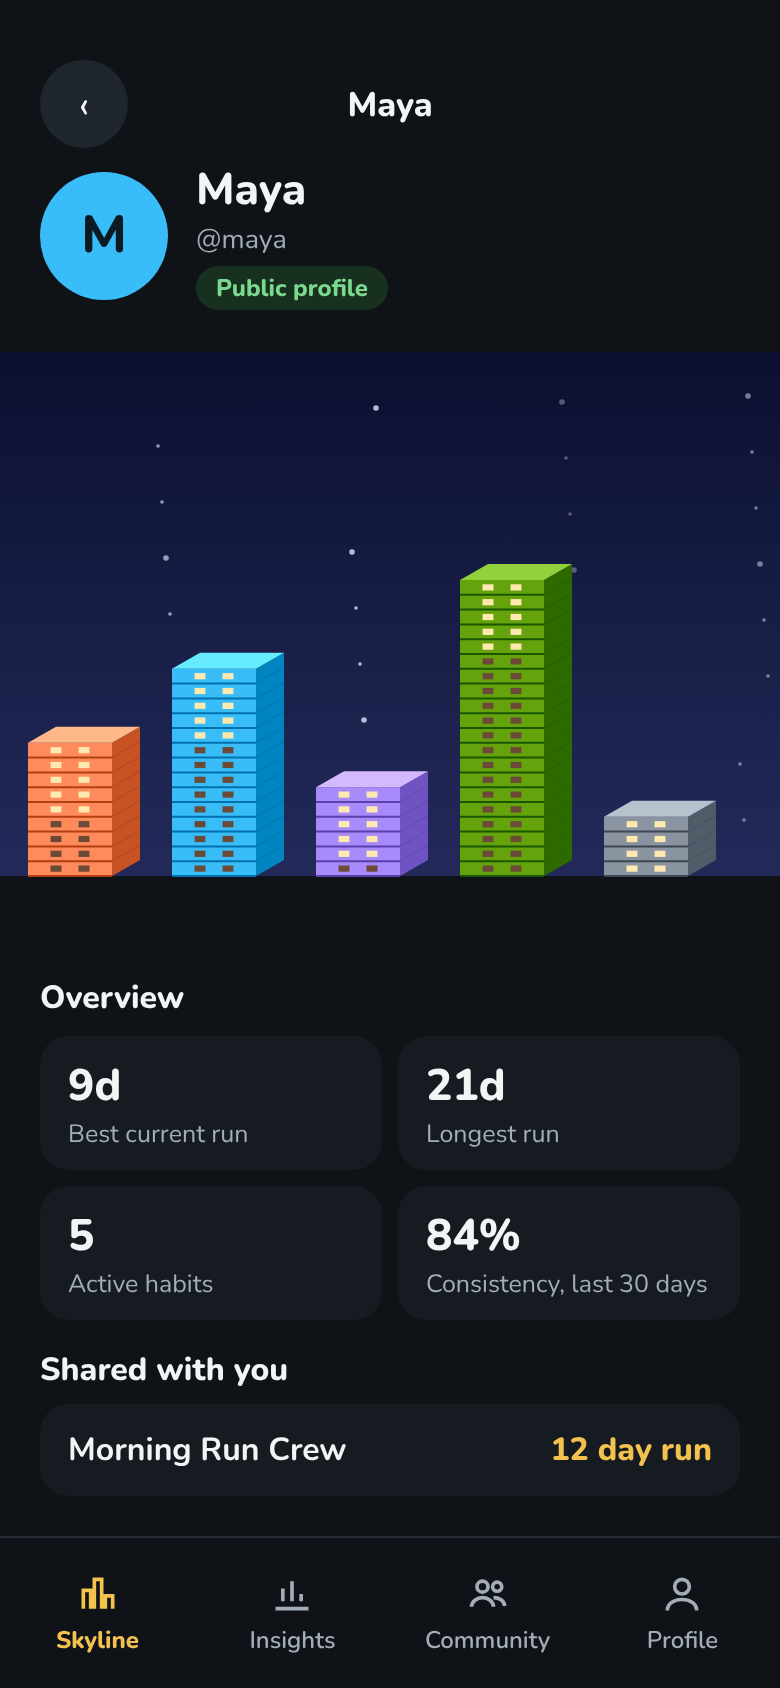
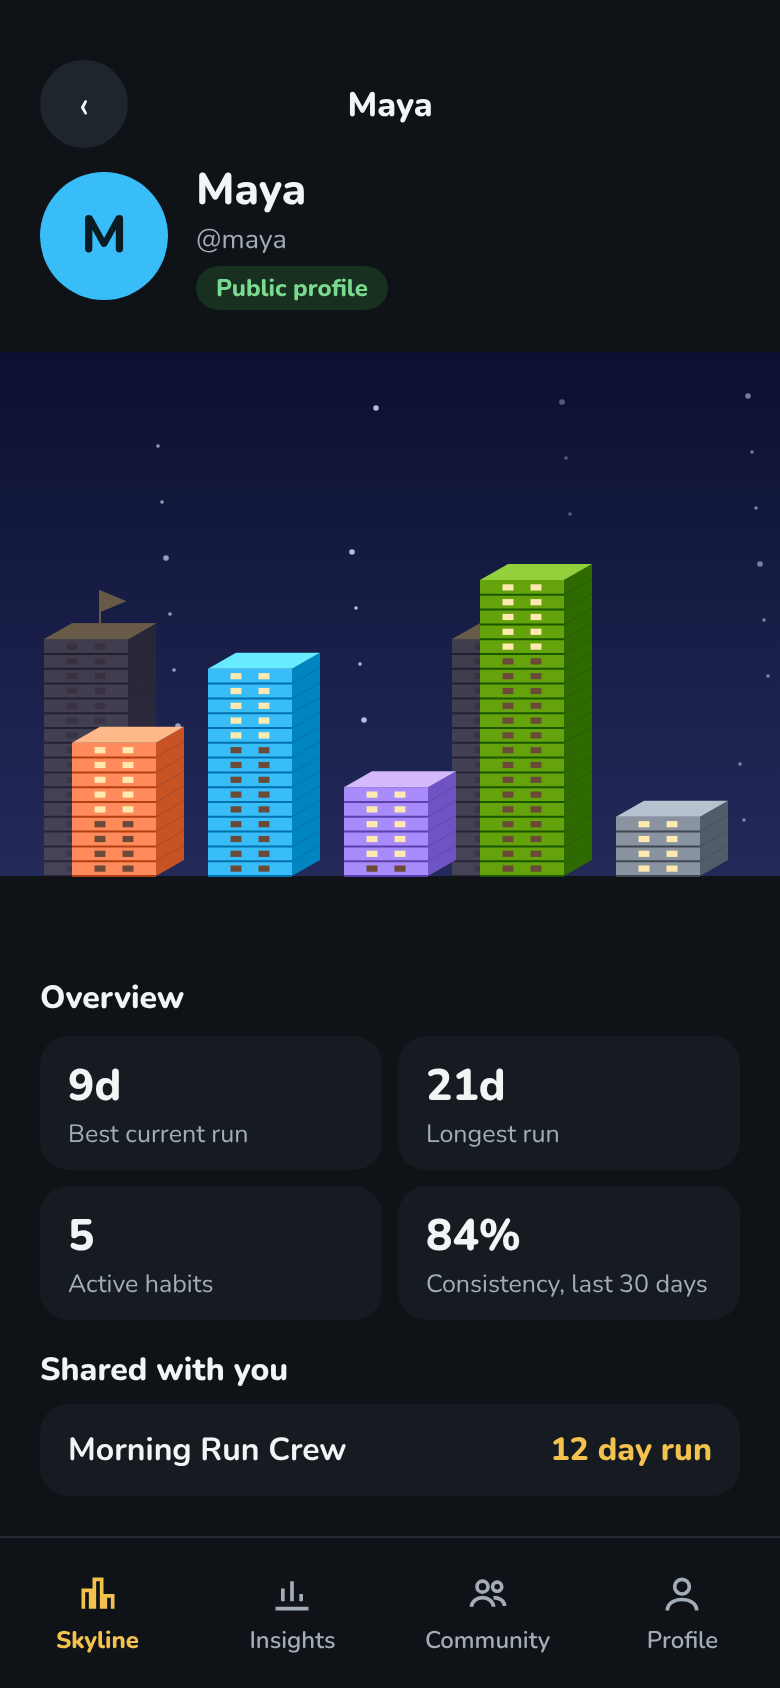
Design: monument sheet uses Total built; friend skyline shows faded finished towers
Claude-Session: https://claude.ai/code/session_01UvWD32uMFJU1E2B9jDYiLg

Changed region(s): [[0.0308, 0.3389, 0.4615, 0.5237], [0.4923, 0.3081, 0.9538, 0.5237]]

diff --git a/design/skyline/source/new.js b/design/skyline/source/new.js
@@ -95,7 +95,8 @@ if(S2==='co-empty'){
 const friendHead=(name,user,pub)=>`<div style="display:flex;align-items:center;justify-content:space-between;padding:30px 20px 6px"><div style="width:44px;height:44px;border-radius:22px;background:#1E252D;display:flex;align-items:center;justify-content:center;font-size:20px">‹</div><div style="font-size:17px;font-weight:800">${name}</div><div style="width:44px"></div></div><div style="padding:0 20px;display:flex;gap:14px;align-items:center"><div style="width:64px;height:64px;border-radius:32px;background:#38BDF8;color:#0b1b24;font-weight:800;font-size:26px;display:flex;align-items:center;justify-content:center">${name[0]}</div><div><div style="font-size:22px;font-weight:800">${name}</div><div style="color:#A3ADB8;font-size:13.5px">@${user}</div><div style="display:inline-block;margin-top:4px;font-size:12px;font-weight:800;padding:3px 10px;border-radius:12px;background:${pub?'#17301f':'#1E252D'};color:${pub?'#7BD88F':'#A3ADB8'}">${pub?'Public profile':'Private profile'}</div></div></div>`;
 if(S2==='fs-public'){
   const T=[['Run','#FF8A5C',9,0],['Read','#38BDF8',14,0],['Meditate','#A78BFA',6,0],['Water','#65A30D',20,0],['Tidy','#8A93A0',4,0]];
-  const sc=T.map(([n,c,f,_],i)=>{const x=14+i*72;const fl=[...rep('dark',Math.max(0,f-5)),...rep('lit',Math.min(5,f))];return tw(c,{x,base:262,w:42,fh:7.4,dx:14,dy:8,floors:fl,windows:2,today:false})+''}).join('');
+  const faded=(x)=>`<g opacity=".4">${tw('#7A6A58',{x:x-14,base:262,w:42,fh:7.4,dx:14,dy:8,floors:rep('dark',16),windows:2,today:false})}<path d="M${x-14},${262-16*7.4}l14,-8h42l-14,8Z" fill="#E0B84A"/><path d="M${x+14},${262-16*7.4-8}v-16l12,5l-12,5" fill="#E0B84A" stroke="#E0B84A"/></g>`;
+  const sc=[0,3].map(i=>faded(36+i*68)).join('')+T.map(([n,c,f,_],i)=>{const x=36+i*68;const fl=[...rep('dark',Math.max(0,f-5)),...rep('lit',Math.min(5,f))];return tw(c,{x,base:262,w:42,fh:7.4,dx:14,dy:8,floors:fl,windows:2,today:false})+''}).join('');
   R.innerHTML=shell(friendHead('Maya','maya',true)+`<svg width="390" height="300" style="position:absolute;top:176px;left:0"><defs><linearGradient id="fg" x1="0" y1="0" x2="0" y2="1"><stop offset="0" stop-color="#0B1030"/><stop offset="1" stop-color="#232a5a"/></linearGradient></defs><rect width="390" height="262" fill="url(#fg)"/>${star(30,240,11)}<rect y="262" width="390" height="38" fill="#0F1216"/>${sc}</svg>
    <div style="position:absolute;top:488px;left:20px;right:20px"><div style="font-weight:800;font-size:16px;margin-bottom:8px">Overview</div>
    <div style="display:grid;grid-template-columns:1fr 1fr;gap:8px">${[['9d','Best current run'],['21d','Longest run'],['5','Active habits'],['84%','Consistency, last 30 days']].map(([v,l])=>`<div style="background:#161B21;border-radius:14px;padding:10px 14px"><div style="font-size:22px;font-weight:800">${v}</div><div style="font-size:12.5px;color:#A3ADB8">${l}</div></div>`).join('')}</div>
@@ -169,7 +170,7 @@ if(S2==='mo-sheet'){
    <div style="color:#A3ADB8;font-size:11px;font-weight:800;letter-spacing:.8px">RETIRED TOWER</div>
    <div style="display:flex;gap:14px;align-items:center;margin-top:4px"><svg width="96" height="170" style="flex:0 0 96px">${tw('#8A93A0',{x:20,base:166,w:44,fh:6.6,dx:16,dy:9,floors:rep('dark',22),windows:2,today:false})}</svg>
    <div style="flex:1"><div style="font-size:24px;font-weight:800;line-height:1.15">Write 300 words</div><div style="color:#A3ADB8;font-size:13px;margin-top:3px">Daily · retired · a grey monument on your skyline</div></div></div>
-   <div style="display:flex;gap:8px;margin-top:12px">${[['41','Floors built'],['12 days','Best run'],['Mar 3','Started']].map(([v,l])=>`<div style="flex:1;background:#1B2128;border-radius:14px;padding:12px 10px;text-align:center"><div style="font-size:20px;font-weight:800">${v}</div><div style="font-size:12px;color:#A3ADB8;margin-top:2px">${l}</div></div>`).join('')}</div>
+   <div style="display:flex;gap:8px;margin-top:12px">${[['41','Total built'],['12 days','Best run'],['Mar 3','Started']].map(([v,l])=>`<div style="flex:1;background:#1B2128;border-radius:14px;padding:12px 10px;text-align:center"><div style="font-size:20px;font-weight:800">${v}</div><div style="font-size:12px;color:#A3ADB8;margin-top:2px">${l}</div></div>`).join('')}</div>
    <div style="margin-top:16px;height:54px;border-radius:27px;background:#F2C14E;color:#1b1608;font-weight:800;font-size:16px;display:flex;align-items:center;justify-content:center">Restore tower</div>
    <div style="text-align:center;color:#A3ADB8;font-size:12.5px;margin-top:10px">Restoring lets you build on this tower again.</div></div></div>`;
 }

diff --git a/design/skyline/README.md b/design/skyline/README.md
@@ -47,11 +47,11 @@ This is the only folder of Skyline mockups. The old `concept _screens/` folder w
 | 40 | `40-notification-center.png` | Notification center | 7 | **APPROVED by the owner 2026-11-16.** Restyle of the existing center: close, "Notifications", mark-all-read, rows with a type icon, title, body, time and an unread dot. All sample titles and bodies are mine; the real ones come from the server. It already opens from a bell in the Community header (confirmed by the developer). |
 | 41 | `41-ask-habituate-chat.png` | Ask Habituate, conversation | 7 | **APPROVED by the owner 2026-11-16.** Uses the existing strings: "Ask Habituate", "Ask about your routine...", "AI suggestions can be imperfect. You're in control.", "Nothing changes until you confirm.", "Confirm adjustment" / "Keep my goal". The question and answer text are sample copy, written non-causally. |
 | 42 | `42-ask-habituate-empty.png` | Ask Habituate, empty state with starter questions | 7 | **APPROVED by the owner 2026-11-16.** Starter questions are generated from the user's habits in the app; the three shown and the heading text are my sample copy. |
-| 43 | `43-friend-skyline-public.png` | Friend skyline, public profile | 6 | **PROPOSAL, awaiting approval (revised 2026-11-16 per the owner).** Towers without habit names: heights and colours only, with the existing overview stats and shared habits below. Needs a new friendship-gated endpoint that returns tower heights and colours but no names. |
+| 43 | `43-friend-skyline-public.png` | Friend skyline, public profile | 6 | **PROPOSAL, awaiting approval (revised 2026-11-16 per the owner).** Towers without habit names, each in the habit's own colour, with finished towers shown faded behind the current one (up to two, as on your own skyline). Needs a friendship-gated endpoint returning floors, colour and a finished-tower count, but no names. The developer has sent a plan; backend not yet approved. |
 | 44 | `44-friend-skyline-private.png` | Friend skyline, private profile | 6 | **PROPOSAL, awaiting approval.** Only the shared-habit towers you both belong to, joined by a skybridge, plus the existing "keeps their stats private" note. Needs floor and run data for shared towers, which the server does not return today. |
 | 45 | `45-edit-tower.png` | Edit tower form | 4 | **PROPOSAL, awaiting owner approval (2026-11-16).** Same fields as board 12 plus "Top out after (days)" (default 30) with its existing sublabel, then Save changes and Delete tower. The subtitle is my wording. The real form has more fields than drawn (times per day, weekly/monthly target, remind me, feature on Goals). | **2026-11-16 (owner):** forms approved as drawn, plus a new "Tower color" picker (12 swatches, one per tower, matching on the skyline and in Insights). The label "Category (sets the tower color)" became "Category". The swatch palette and the default for new and existing towers are **approved by the owner 2026-11-16** (palette and fallback: existing towers keep their category colour until the user picks one).
 | 46–50 | `46-tour-step-1.png` … `50-tour-step-5.png` | Onboarding tour, 5 steps | 7 | **APPROVED by the owner 2026-11-16.** SKYLINE §5 step 7: the skyline, hold to build, tap a tower, Community, Profile. A dimmed screen with an amber spotlight, a card with "N OF 5", Skip, dots and Next (Done on the last). **All wording is mine.** The spotlight targets must be registered with useTourTarget. |
-| 51 | `51-monument-sheet.png` | Retired tower (monument) sheet | 3 | **APPROVED by the owner 2026-11-16.** The owner asked that tapping a grey monument shows that tower's stats and a Restore option. Stats drawn: floors built, best run, started date. Whether the app has the retired tower's start date is unconfirmed; the developer confirms the available stats. |
+| 51 | `51-monument-sheet.png` | Retired tower (monument) sheet | 3 | **APPROVED by the owner 2026-11-16.** The owner asked that tapping a grey monument shows that tower's stats and a Restore option. Stats drawn: total built (the tower sheet's existing stat), best run, started date (the app has both best run and the created date). The owner chose Total built over an approximate floors count on 2026-11-16. |
 
 `superseded/` keeps old versions and boards that were not chosen (01, 03, 06, 07, 22, 23, 25). Don't build from them.
 
